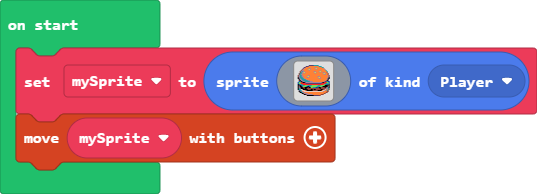
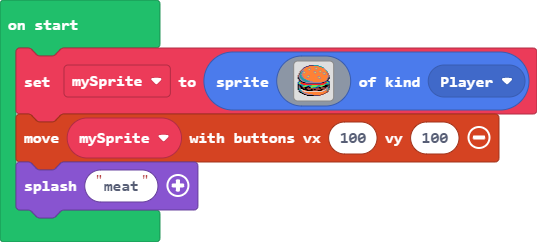
Update main.blocks, main.ts

diff --git a/main.ts b/main.ts
@@ -32,4 +32,5 @@ let mySprite = sprites.create(img`
     .........fffffffcccccee.........
     ................................
     `, SpriteKind.Player)
-controller.moveSprite(mySprite)
+controller.moveSprite(mySprite, 100, 100)
+game.splash("meat")
